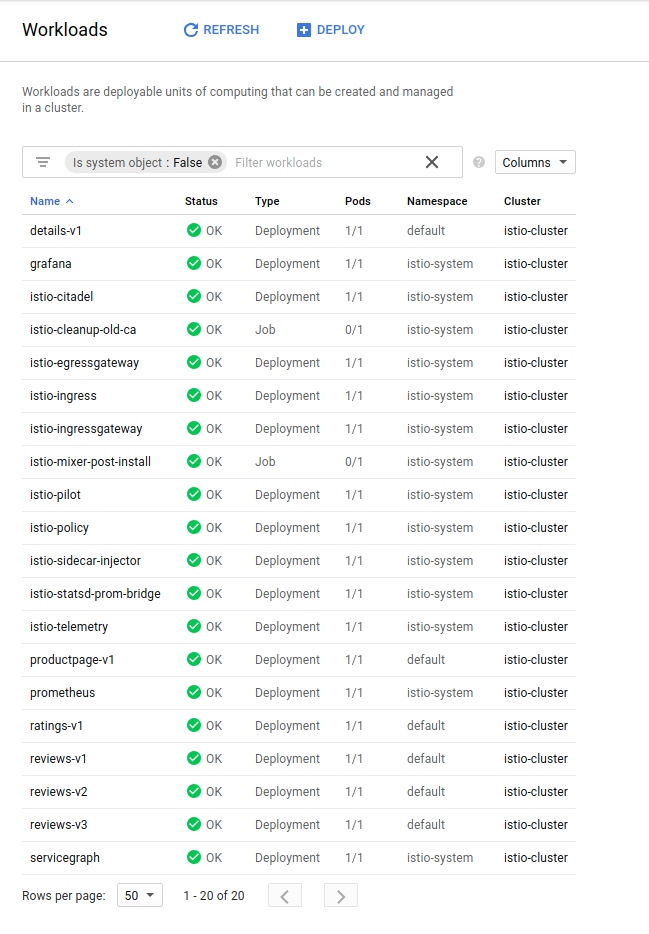
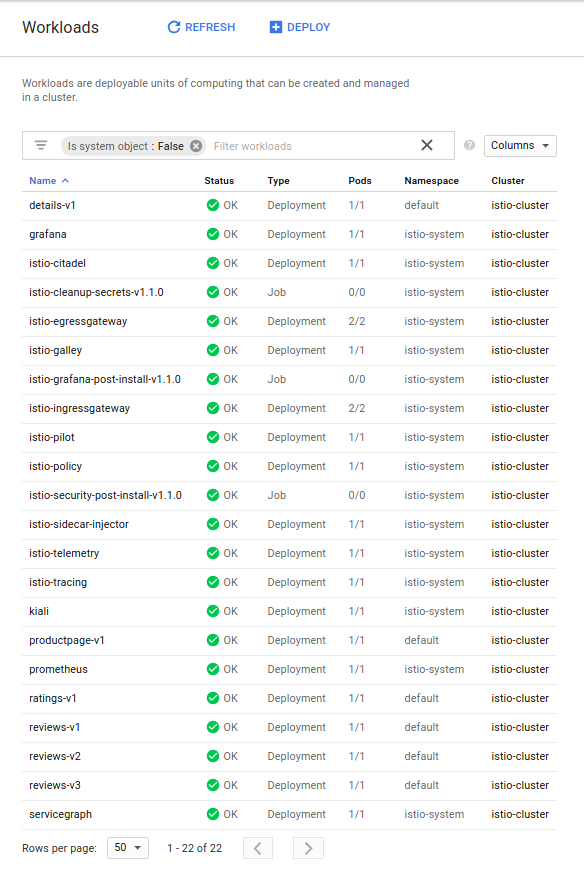
Updates for DM installer for 1.1 part2 (#3010)
* Updates for DM installer for 1.1

* remove ServiceGraph references

diff --git a/content/docs/setup/kubernetes/quick-start-gke-dm/index.md b/content/docs/setup/kubernetes/quick-start-gke-dm/index.md
@@ -41,21 +41,22 @@ caption="GKE-IAM Role"
 
 ### Launch Deployment Manager
 
-1.  Once you have an account and project enabled, click the following link to open the Deployment Manager.
+1. Once you have an account and project enabled, click the following link to open the Deployment Manager.
 
     [Istio GKE Deployment Manager](https://accounts.google.com/signin/v2/identifier?service=cloudconsole&continue=https://console.cloud.google.com/launcher/config?templateurl={{< github_file >}}/install/gcp/deployment_manager/istio-cluster.jinja&followup=https://console.cloud.google.com/launcher/config?templateurl=https://raw.githubusercontent.com/istio/istio/master/install/gcp/deployment_manager/istio-cluster.jinja&flowName=GlifWebSignIn&flowEntry=ServiceLogin)
 
     We recommend that you leave the default settings as the rest of this tutorial shows how to access the installed features. By default the tool creates a
-    GKE alpha cluster with the specified settings, then installs the Istio [control plane](/docs/concepts/what-is-istio/#architecture), the
+    GKE cluster with the specified settings, then installs the Istio [control plane](/docs/concepts/what-is-istio/#architecture), the
     [Bookinfo](/docs/examples/bookinfo/) sample app,
     [Grafana](/docs/tasks/telemetry/using-istio-dashboard/) with
     [Prometheus](/docs/tasks/telemetry/querying-metrics/),
+    [Kiali](/docs/tasks/telemetry/kiali/),
     and [Tracing](/docs/tasks/telemetry/distributed-tracing/).
     You'll find out more about how to access all of these below.  This script will enable Istio auto-injection on the `default` namespace only.
 
-1.  Click **Deploy**:
+1. Click **Deploy**:
 
-    {{< image width="100%" ratio="67.17%"
+    {{< image width="60%" ratio="160%"
     link="./dm_launcher.png"
     caption="GKE-Istio Launcher"
     >}}
@@ -66,18 +67,18 @@ Wait until Istio is fully deployed. Note that this can take up to five minutes.
 
 Once deployment is complete, do the following on the workstation where you've installed `gcloud`:
 
-1.  Bootstrap `kubectl` for the cluster you just created and confirm the cluster is
+1. Bootstrap `kubectl` for the cluster you just created and confirm the cluster is
 running and Istio is enabled
 
     {{< text bash >}}
     $ gcloud container clusters list
     NAME           LOCATION       MASTER_VERSION  MASTER_IP      MACHINE_TYPE   NODE_VERSION  NUM_NODES  STATUS
-    istio-cluster  us-central1-a  1.9.7-gke.1     35.232.222.60  n1-standard-2  1.9.7-gke.1   4          RUNNING
+    istio-cluster  us-central1-a  1.9.7-gke.11    35.188.172.144 n1-standard-2  1.9.7-gke.11  4          RUNNING
     {{< /text >}}
 
     In this case, the cluster name is `istio-cluster`.
 
-1.  Now acquire the credentials for this cluster
+1. Now acquire the credentials for this cluster
 
     {{< text bash >}}
     $ gcloud container clusters get-credentials istio-cluster --zone=us-central1-a
@@ -89,43 +90,45 @@ Verify Istio is installed in its own namespace
 
 {{< text bash >}}
 $ kubectl get deployments,ing -n istio-system
-NAME                              DESIRED   CURRENT   UP-TO-DATE   AVAILABLE   AGE
-deploy/grafana                    1         1         1            1           4m
-deploy/istio-citadel              1         1         1            1           4m
-deploy/istio-egressgateway        1         1         1            1           4m
-deploy/istio-ingress              1         1         1            1           4m
-deploy/istio-ingressgateway       1         1         1            1           4m
-deploy/istio-pilot                1         1         1            1           4m
-deploy/istio-policy               1         1         1            1           4m
-deploy/istio-sidecar-injector     1         1         1            1           4m
-deploy/istio-statsd-prom-bridge   1         1         1            1           4m
-deploy/istio-telemetry            1         1         1            1           4m
-deploy/prometheus                 1         1         1            1           4m
+NAME                                           DESIRED   CURRENT   UP-TO-DATE   AVAILABLE   AGE
+deployment.extensions/grafana                  1         1         1            1           3m
+deployment.extensions/istio-citadel            1         1         1            1           3m
+deployment.extensions/istio-egressgateway      2         2         2            2           3m
+deployment.extensions/istio-galley             1         1         1            1           3m
+deployment.extensions/istio-ingressgateway     2         2         2            2           3m
+deployment.extensions/istio-pilot              1         1         1            1           3m
+deployment.extensions/istio-policy             1         1         1            1           3m
+deployment.extensions/istio-sidecar-injector   1         1         1            1           3m
+deployment.extensions/istio-telemetry          1         1         1            1           3m
+deployment.extensions/istio-tracing            1         1         1            1           3m
+deployment.extensions/kiali                    1         1         1            1           1m
+deployment.extensions/prometheus               1         1         1            1           3m
+deployment.extensions/servicegraph             1         1         1            1           3m
 {{< /text >}}
 
 Now confirm that the Bookinfo sample application is also installed:
 
 {{< text bash >}}
 $ kubectl get deployments,ing
-NAME                    DESIRED   CURRENT   UP-TO-DATE   AVAILABLE   AGE
-deploy/details-v1       1         1         1            1           7m
-deploy/productpage-v1   1         1         1            1           7m
-deploy/ratings-v1       1         1         1            1           7m
-deploy/reviews-v1       1         1         1            1           7m
-deploy/reviews-v2       1         1         1            1           7m
-deploy/reviews-v3       1         1         1            1           7m
+NAME                                   DESIRED   CURRENT   UP-TO-DATE   AVAILABLE   AGE
+deployment.extensions/details-v1       1         1         1            1           1m
+deployment.extensions/productpage-v1   1         1         1            1           1m
+deployment.extensions/ratings-v1       1         1         1            1           1m
+deployment.extensions/reviews-v1       1         1         1            1           1m
+deployment.extensions/reviews-v2       1         1         1            1           1m
+deployment.extensions/reviews-v3       1         1         1            1           1m
 {{< /text >}}
 
 Now get the `istio-ingress` IP:
 
 {{< text bash >}}
 $ kubectl get svc istio-ingressgateway -n istio-system
-NAME                   TYPE           CLUSTER-IP      EXTERNAL-IP    PORT(S)                                      AGE
-istio-ingressgateway   LoadBalancer   10.59.251.109   35.194.26.85   80:31380/TCP,443:31390/TCP,31400:31400/TCP   6m
+NAME                   TYPE           CLUSTER-IP     EXTERNAL-IP    PORT(S)                                                                                                                      AGE
+istio-ingressgateway   LoadBalancer   10.59.245.24   35.239.8.197   80:31380/TCP,443:31390/TCP,31400:31400/TCP,15029:32759/TCP,15030:31508/TCP,15031:32482/TCP,15032:31532/TCP,15443:30156/TCP   4m
 {{< /text >}}
 
 Note down the IP address (EXTERNAL-IP) and port assigned to the Bookinfo product page
-(in the example above, it's `35.194.26.85:80`).
+(in the example above, it's `35.239.8.197:80`).
 
 You can also view the installation using the **Kubernetes Engine -> Workloads** section on the [Cloud Console](https://console.cloud.google.com/kubernetes/workload):
 
@@ -136,21 +139,21 @@ You can also view the installation using the **Kubernetes Engine -> Workloads** 
 
 ### Access the Bookinfo sample
 
-1.  Set up an environment variable for Bookinfo's external IP address:
+1. Set up an environment variable for Bookinfo's external IP address:
 
     {{< text bash >}}
     $ export GATEWAY_URL=$(kubectl -n istio-system get service istio-ingressgateway -o jsonpath='{.status.loadBalancer.ingress[0].ip}')
     $ echo $GATEWAY_URL
     {{< /text >}}
 
-1.  Verify you can access the Bookinfo `http://${GATEWAY_URL}/productpage`:
+1. Verify you can access the Bookinfo `http://${GATEWAY_URL}/productpage`:
 
     {{< image width="100%" ratio="45.04%"
     link="./dm_bookinfo.png"
     caption="Bookinfo"
     >}}
 
-1.  Now send some traffic to it:
+1. Now send some traffic to it:
 
     {{< text bash >}}
     $ for i in {1..100}; do curl -o /dev/null -s -w "%{http_code}\n" http://${GATEWAY_URL}/productpage; done
@@ -164,17 +167,17 @@ If you are using Cloud Shell rather than the installed `gcloud` client, you can 
 
 ### Grafana
 
-Set up a tunnel to Grafana:
+1. Set up a tunnel to Grafana:
 
-{{< text bash >}}
-$ kubectl -n istio-system port-forward $(kubectl -n istio-system get pod -l app=grafana -o jsonpath='{.items[0].metadata.name}') 3000:3000 &
-{{< /text >}}
+    {{< text bash >}}
+    $ kubectl -n istio-system port-forward $(kubectl -n istio-system get pod -l app=grafana -o jsonpath='{.items[0].metadata.name}') 3000:3000 &
+    {{< /text >}}
 
-then
+1. View the console at:
 
-{{< text plain >}}
-http://localhost:3000/dashboard/db/istio-mesh-dashboard
-{{< /text >}}
+    {{< text plain >}}
+    http://localhost:3000/dashboard/db/istio-dashboard
+    {{< /text >}}
 
 You should see some statistics for the requests you sent earlier.
 
@@ -189,15 +192,17 @@ For more details about using Grafana, see [About the Grafana Add-on](/docs/tasks
 
 Prometheus is installed with Grafana. You can view Istio and application metrics using the console as follows:
 
-{{< text bash >}}
-$ kubectl -n istio-system port-forward $(kubectl -n istio-system get pod -l app=prometheus -o jsonpath='{.items[0].metadata.name}') 9090:9090 &
-{{< /text >}}
+1. Set up a tunnel to Prometheus:
 
-View the console at:
+    {{< text bash >}}
+    $ kubectl -n istio-system port-forward $(kubectl -n istio-system get pod -l app=prometheus -o jsonpath='{.items[0].metadata.name}') 9090:9090 &
+    {{< /text >}}
 
-{{< text plain >}}
-http://localhost:9090/graph
-{{< /text >}}
+1. View the console at:
+
+    {{< text plain >}}
+    http://localhost:9090/graph
+    {{< /text >}}
 
 {{< image width="100%" ratio="43.88%"
     link="./dm_prometheus.png"
@@ -206,15 +211,41 @@ http://localhost:9090/graph
 
 For more details, see [About the Prometheus Add-on](/docs/tasks/telemetry/querying-metrics/#about-the-prometheus-add-on).
 
+### Install mesh visualization tools
+
+#### Kiali
+
+1. Set up a tunnel to Kiali:
+
+    {{< text bash >}}
+    $ kubectl -n istio-system port-forward $(kubectl -n istio-system get pod -l app=kiali -o jsonpath='{.items[0].metadata.name}') 20001:20001 &
+    {{< /text >}}
+
+1. You should see the Bookinfo service topology at
+
+    {{< text plain >}}
+    http://localhost:20001/kiali/console/overview
+    {{< /text >}}
+
+Enter the username/password for the Kiali admin console you specified during setup.
+Otherwise, the default username/password for the console is `admin`/`mysecret`.
+
+{{< image width="100%" ratio="53.33%"
+    link="./dm_kiali.png"
+    caption="Kiali"
+    >}}
+
+For more details, see [About the Kiali Add-on](/docs/tasks/telemetry/kiali/).
+
 ## Tracing
 
-Set up a tunnel to the tracing dashboard:
+1. Set up a tunnel to the tracing dashboard:
 
-{{< text bash >}}
-$ kubectl port-forward -n istio-system $(kubectl get pod -n istio-system -l app=jaeger -o jsonpath='{.items[0].metadata.name}') 16686:16686 &
-{{< /text >}}
+    {{< text bash >}}
+    $ kubectl port-forward -n istio-system $(kubectl get pod -n istio-system -l app=jaeger -o jsonpath='{.items[0].metadata.name}') 16686:16686 &
+    {{< /text >}}
 
-You should see the trace statistics sent earlier on [http://localhost:16686](http://localhost:16686)
+1. You should see the trace statistics sent earlier on [http://localhost:16686](http://localhost:16686)
 
 {{< image width="100%" ratio="42.35%"
     link="./dm-tracing.png"
